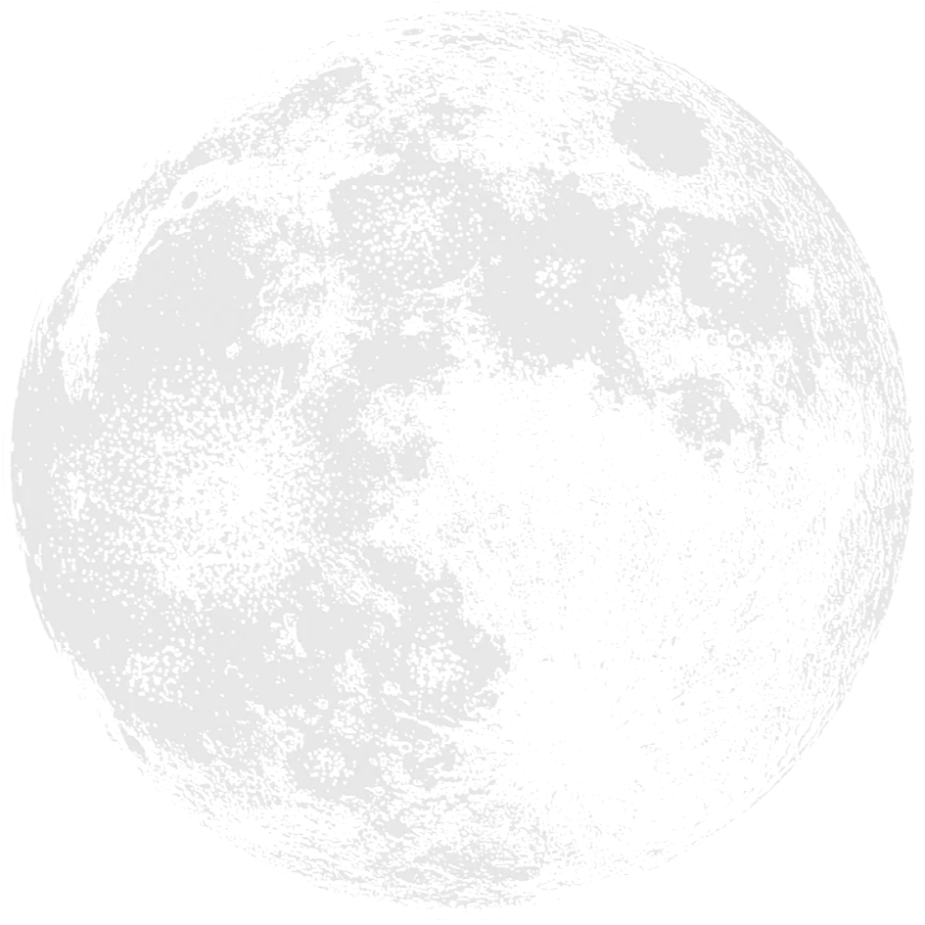
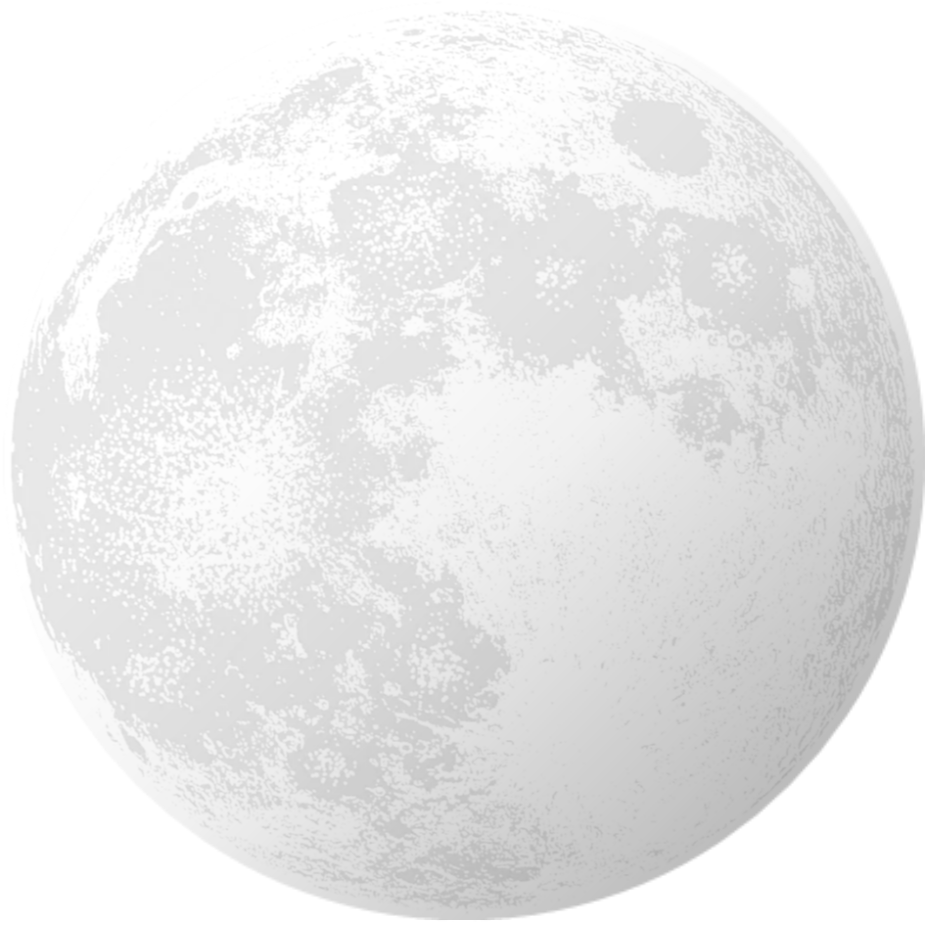
moon shadow

Changed region(s): [[0.2724, 0.2422, 1.0, 0.9989]]

diff --git a/templates/daily.html b/templates/daily.html
@@ -528,7 +528,7 @@
 
         <img class="noselect" id="zen" src="{{url_for('static', filename='zengif.gif')}}" style=" position: absolute; top: 220px; left: calc(50% - 100px); width: 200px; text-align: center; height: auto; display: none" alt="zen" />
 
-        <img class="noselect" id="moon" src="{{url_for('static', filename='moon2.png')}}" style=" position: absolute; top: 220px; left: calc(50% - 100px); width: 200px; text-align: center; height: auto; display: none" alt="moon" />
+        <img class="noselect" id="moon" src="{{url_for('static', filename='moon.png')}}" style=" position: absolute; top: 220px; left: calc(50% - 100px); width: 200px; text-align: center; height: auto; display: none" alt="moon" />
 
         <p class="noselect grad" id="instructions" style="position: absolute; top: 17vh; left: calc(50% - 8.4em); width: 16.8em; text-align: justify; text-align-last: justify; font-size: 2.3vh; line-height: 3.8vh; font-family: poppins; font-weight: 400;"><a style = "font-weight: 700;">A relaxing 4-minute meditation</a> Press and hold as you inhale, and then release as you exhale. Enjoy!</p>
 
